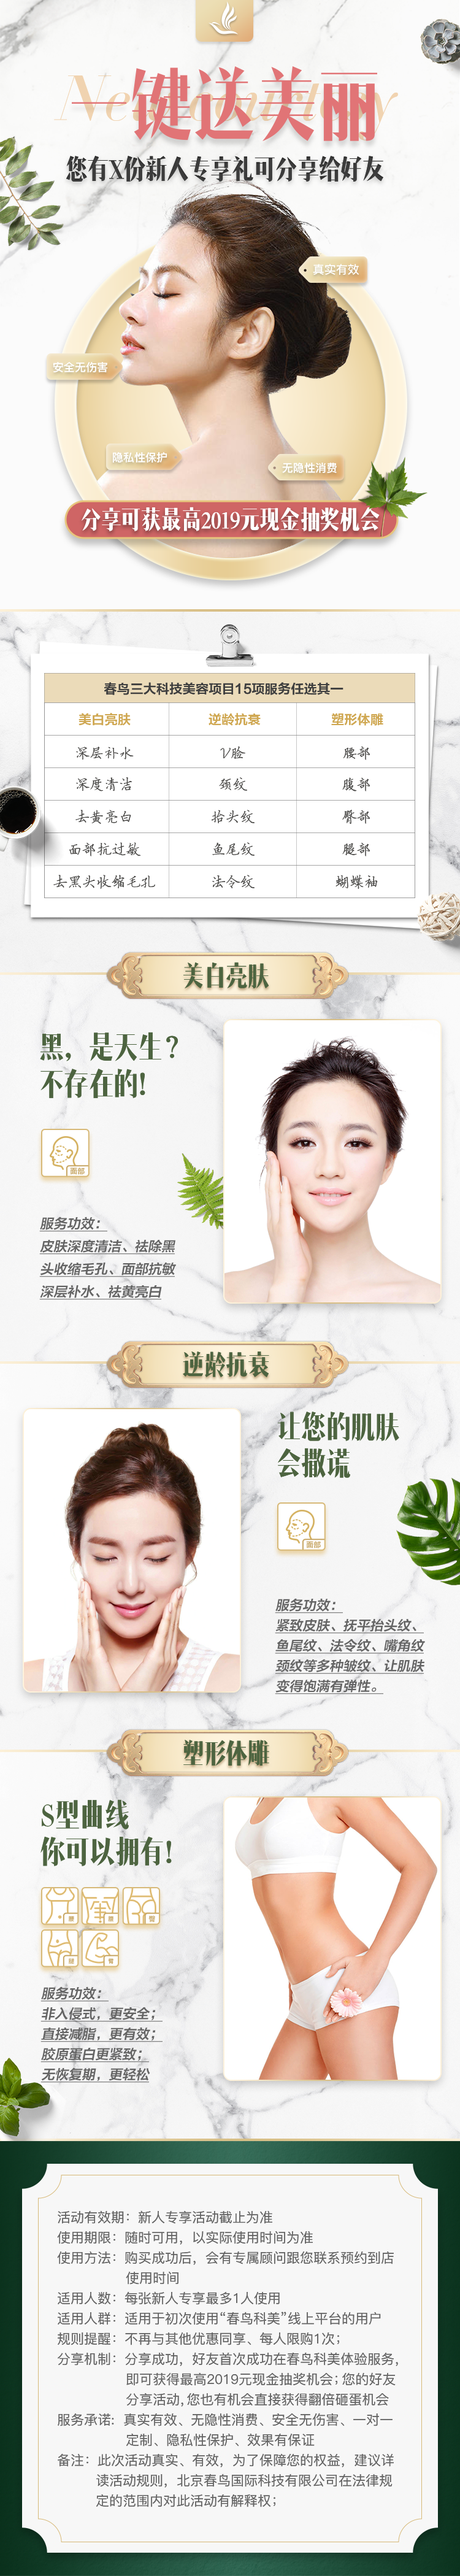
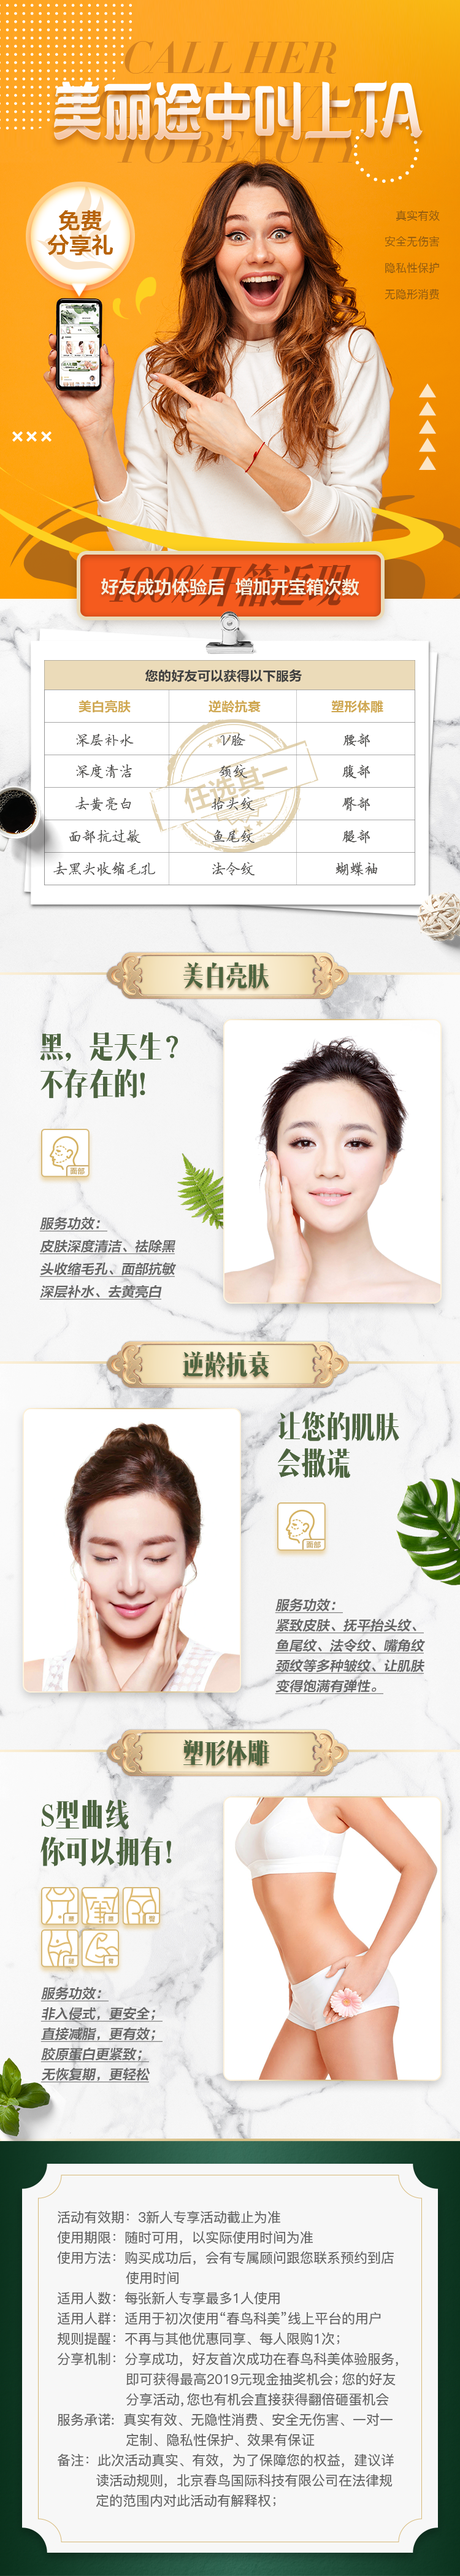
调整了分享页面

diff --git a/src/app/newerdec/newerdec.component.html b/src/app/newerdec/newerdec.component.html
@@ -3,22 +3,22 @@
     <img src="./assets/image/newerdec.png" alt="">
   </div>
 </div>
-<div class="floatBox">
-  <div class="shareTipsBoxBg"></div>
-  <div class="shareTipsBox">
-    <span (click)="showTips = !showTips">分享规则</span>
-  </div>
-  <div class="tipsTextBox" *ngIf="showTips">
-    <p>1.1、邀请好友首次成功在春鸟科美体验服务，即可获得砸金蛋机会</p>
-    <p>1.2、您的好友分享活动，您也有机会可以直接获得翻倍砸蛋机会；</p>
-    <p>1.3、砸金蛋活动单次最高可获得2019元现金；</p>
-    <p>1.4、北京春鸟国际科技有限公司在法律规定的范围内对此活动有解释权；</p>
-  </div>
-  <div class="tipsTextBoxBg" *ngIf="showTips"></div>
-</div>
+<!--<div class="floatBox">-->
+  <!--<div class="shareTipsBoxBg"></div>-->
+  <!--<div class="shareTipsBox">-->
+    <!--<span (click)="showTips = !showTips">分享规则</span>-->
+  <!--</div>-->
+  <!--<div class="tipsTextBox" *ngIf="showTips">-->
+    <!--<p>1.1、邀请好友首次成功在春鸟科美体验服务，即可获得砸金蛋机会</p>-->
+    <!--<p>1.2、您的好友分享活动，您也有机会可以直接获得翻倍砸蛋机会；</p>-->
+    <!--<p>1.3、砸金蛋活动单次最高可获得2019元现金；</p>-->
+    <!--<p>1.4、北京春鸟国际科技有限公司在法律规定的范围内对此活动有解释权；</p>-->
+  <!--</div>-->
+  <!--<div class="tipsTextBoxBg" *ngIf="showTips"></div>-->
+<!--</div>-->
 
 <div class="bottom">
-  <div class="leftInfo">已购买人数 99999</div>
+  <div class="leftInfo">免费分享礼{{nums}}份</div>
   <div class="btns bggreen" [routerLink]="['/sharedpage']">免费分享</div>
 </div>
 <app-alertbox></app-alertbox>

diff --git a/src/app/paystaus/paystaus.component.html b/src/app/paystaus/paystaus.component.html
@@ -9,7 +9,7 @@
       <p>免费福利送亲友</p>
       <p>本次消费您</p>
       <p>共获得 <span>{{userInfo.presentRemnant}}</span> 张398体验券</p>
-      <div class="bigbtn" [routerLink]="['/newerdec']">
+      <div class="bigbtn" [routerLink]="['/newerdec', userInfo.presentRemnant]">
         一键送福利
       </div>
     </div>
@@ -26,7 +26,7 @@
       <p>可到我的订单查看</p>
       <div class="btnBox">
         <div class="btnlist" [routerLink]="['/myorder']">查看订单</div>
-        <div class="btnlist" [routerLink]="['/newerdec']">分享体验</div>
+        <div class="btnlist" [routerLink]="['/newerdec', userInfo.presentRemnant]">分享体验</div>
       </div>
     </div>
   </div>

diff --git a/src/app/newerdec/newerdec.component.ts b/src/app/newerdec/newerdec.component.ts
@@ -12,11 +12,7 @@ import {TongxinService} from '../shared/tongxin.service';
 })
 export class NewerdecComponent implements OnInit {
   public showTips = false;
-  public goodsId: any = '';
-  public tiyanInfo: any = {
-    id: 1
-  };
-  public imgsarr: any = '';
+  public nums: any = '';
   // 弹框显示
   @ViewChild(AlertboxComponent)
   alertBox: AlertboxComponent;
@@ -25,6 +21,6 @@ export class NewerdecComponent implements OnInit {
 
   ngOnInit() {
     this.titleService.setTitle('新人专享礼0元介绍分享页');
-    this.routerInfo.params.subscribe((params) => this.goodsId = params['goodsId']);
+    this.routerInfo.params.subscribe((params) => this.nums = params['nums']);
   }
 }

diff --git a/src/app/newercome/newercome.component.css b/src/app/newercome/newercome.component.css
@@ -4,7 +4,7 @@
   position: fixed;
   left: 50%;
   margin-left: -3.75rem;
-  bottom: 0;
+  bottom: 1.4rem;
   z-index: 9;
   background: #FFF;
   display: flex;
@@ -22,7 +22,7 @@
   font-size: 0.22rem;
 }
 .bottom .btns{
-  width: 2rem;
+  width: 100%;
   height: 100%;
   display: flex;
   flex-direction: row;
@@ -43,8 +43,8 @@
   position: fixed;
   left: 50%;
   margin-left: -3.75rem;
-  bottom: 1.7rem;
-  z-index: 9;
+  bottom: 0.3rem;
+  z-index: 19;
   display: flex;
   flex-direction: row;
   justify-content: flex-start;
@@ -103,7 +103,6 @@
   display: flex;
   flex-direction: row;
   justify-content: center;
-  margin-bottom: 1.2rem;
 }
 .content{
   width: 7.5rem;

diff --git a/src/app/app-routing.module.ts b/src/app/app-routing.module.ts
@@ -36,7 +36,7 @@ const routes: Routes = [
   { path: 'goodsdetail/:goodsId', component: DetailComponent},
   { path: 'specialgoods', component: SpecialgoodsComponent},
   { path: 'newergif/:goodsId', component: NewergifComponent},
-  { path: 'newerdec', component: NewerdecComponent},
+  { path: 'newerdec/:nums', component: NewerdecComponent},
   { path: 'newercome', component: NewercomeComponent},
   { path: 'sharedpage', component: SharedpageComponent},
   { path: 'address/:status', component: AddresComponent},

diff --git a/src/app/orderdetail/orderdetail.component.html b/src/app/orderdetail/orderdetail.component.html
@@ -134,7 +134,7 @@
   </div>
   <!--待使用切换所需显示部分结束-->
 
-  <div class="juanBox" [routerLink]="['/newerdec']" *ngIf="detailInfo.orderStatus==1 || detailInfo.orderStatus==2">
+  <div class="juanBox" [routerLink]="['/newerdec', userInfo.presentRemnant]" *ngIf="detailInfo.orderStatus==1 || detailInfo.orderStatus==2">
     <img src="./assets/image/songJuan.png" alt="">
     <span>（剩余{{userInfo.presentRemnant}}张）</span>
   </div>

diff --git a/src/app/newercome/newercome.component.html b/src/app/newercome/newercome.component.html
@@ -18,8 +18,6 @@
 </div>
 
 <div class="bottom">
-  <div class="leftInfo">已购买人数 99999</div>
-  <div class="btns bgyellow" (click)="goPaysure()">免费领取</div>
-  <div class="btns bggreen" [routerLink]="['/sharedpage']">免费分享</div>
+  <div class="btns bggreen" (click)="goPaysure()">立即领取</div>
 </div>
 <app-alertbox></app-alertbox>

diff --git a/src/app/newerdec/newerdec.component.css b/src/app/newerdec/newerdec.component.css
@@ -19,7 +19,7 @@
   justify-content: center;
   align-items: center;
   color: #646464;
-  font-size: 0.22rem;
+  font-size: 0.28rem;
 }
 .bottom .btns{
   width: 50%;
